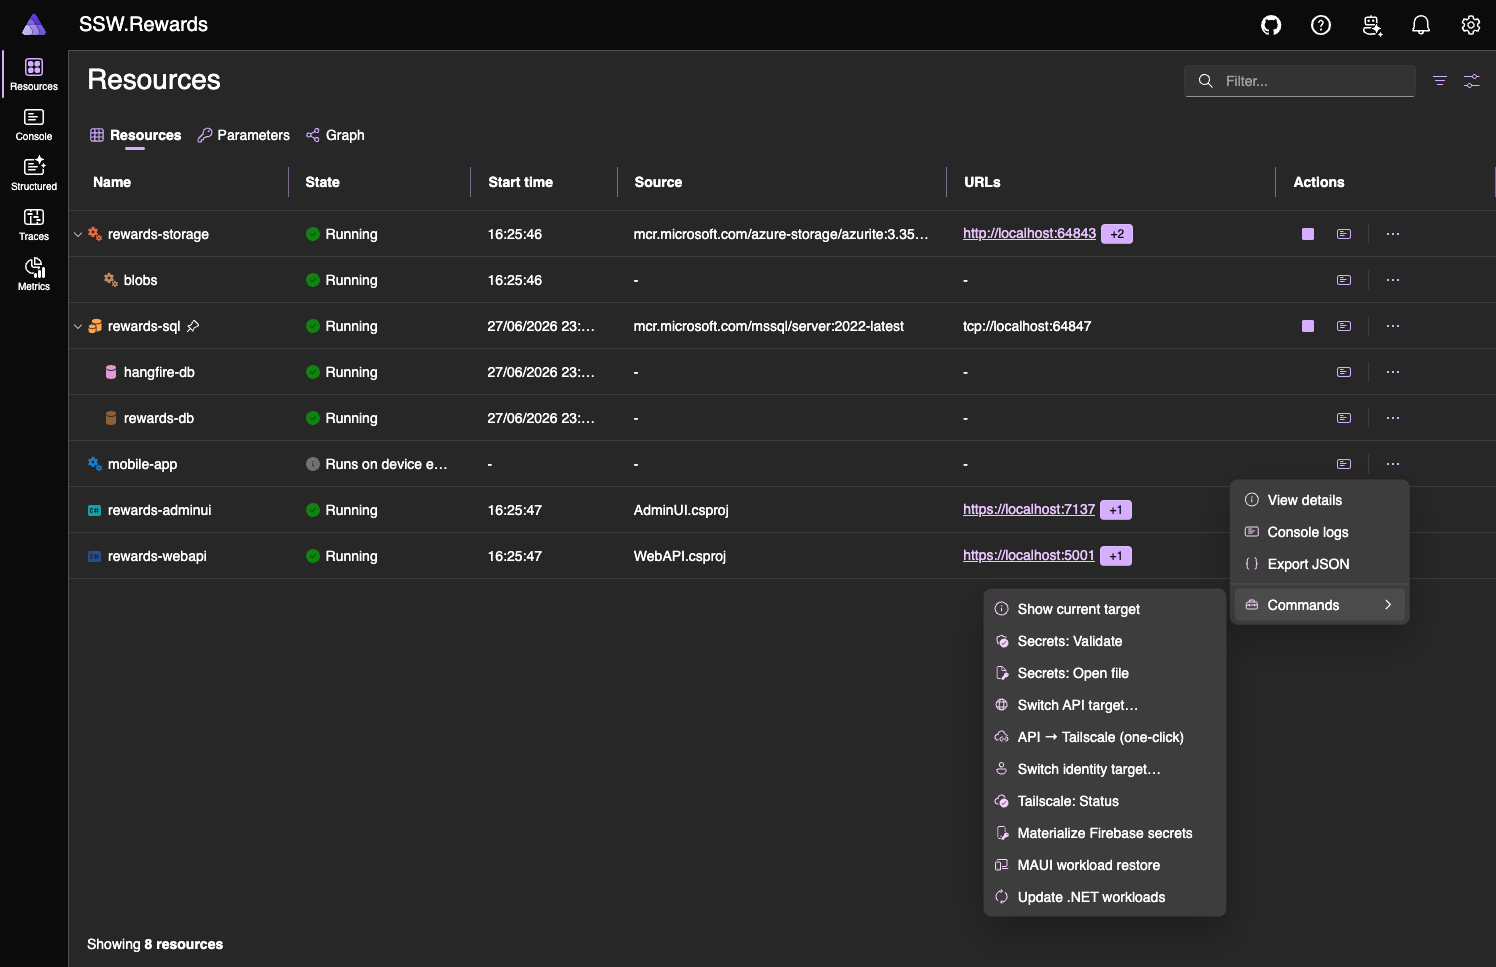
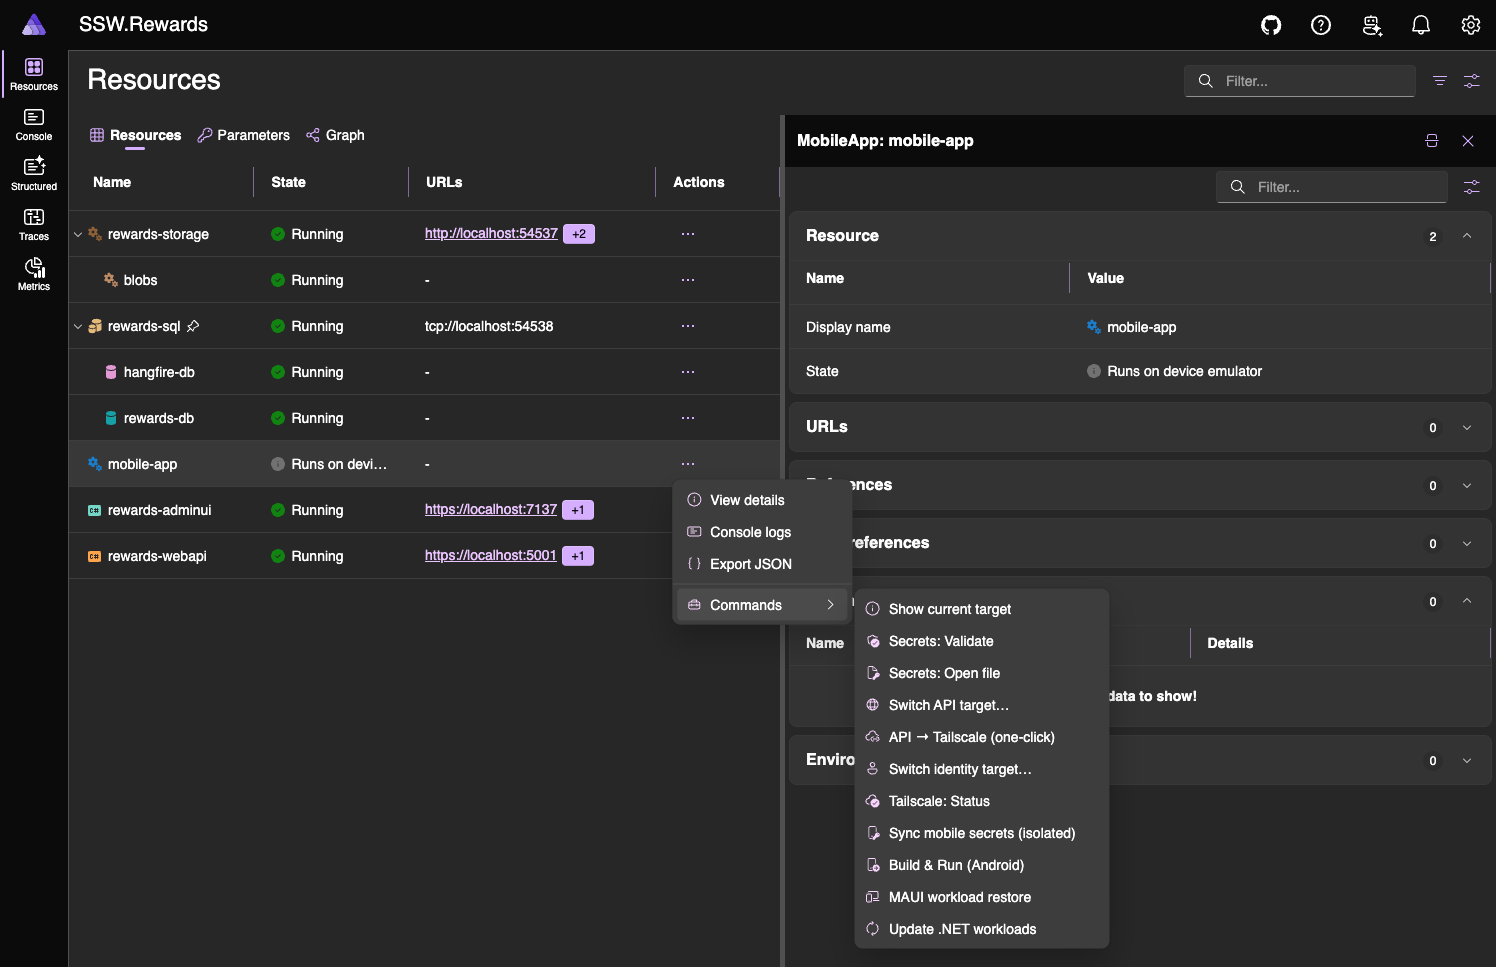
Fix .aspire appHostPath + refresh mobile dashboard screenshot
Polish from fresh-dev validation run 2:

- DX-2: `.aspire/settings.json` `appHostPath` is resolved relative to the
  `.aspire/` directory (per Aspire CLI convention), so `src/AppHost/...`
  produced a cosmetic "AppHost file ... does not exist" warning on every
  `aspire run` (CLI fell back to discovery). Correct it to
  `../src/AppHost/SSW.Rewards.AppHost.csproj`. Verified: warning gone, AppHost
  resolves directly.
- Refresh `_docs/imgs/aspire-mobile-commands.png` to the current command flyout
  (now includes "Sync mobile secrets (isolated)" + "Build & Run (Android)") and
  update its alt text.
- Document the `nohup` emulator-launch pattern for non-interactive shells.

diff --git a/_docs/Aspire-Local-Dev.md b/_docs/Aspire-Local-Dev.md
@@ -101,7 +101,7 @@ restarts. WebAPI + AdminUI start once SQL is healthy; migrations apply on WebAPI
 ## Dashboard commands
 The dashboard groups the local-dev chores under two resources (Actions ▸ Commands):
 
-<img src="imgs/aspire-mobile-commands.png" alt="mobile-app Actions menu expanded showing the Commands flyout with Show current target, Secrets Validate, Secrets Open file, Switch API target, API to Tailscale, Switch identity target, Tailscale Status, Sync mobile secrets (isolated), MAUI workload restore and Update .NET workloads" width="900" />
+<img src="imgs/aspire-mobile-commands.png" alt="mobile-app Actions menu expanded showing the Commands flyout with Show current target, Secrets Validate, Secrets Open file, Switch API target, API to Tailscale, Switch identity target, Tailscale Status, Sync mobile secrets (isolated), Build & Run (Android), MAUI workload restore and Update .NET workloads" width="900" />
 
 Commands that need input (e.g. **Switch API target…**) open a prompt right in the dashboard. Target
 pickers are **dropdowns** (local / staging / prod / tailscale) — no typos, valid by construction:
@@ -189,6 +189,10 @@ Aspire does **not** run the MAUI app — it runs on an emulator/device the usual
      -p:MobileTargetFrameworks=net10.0-android -p:AdbTarget="-s <emulator-id>"
    ```
    (`-t:Run` pushes the Fast-Deployment assemblies; a plain `adb install` of the Debug APK won't run.)
+
+> Boot an emulator first: `~/Library/Android/sdk/emulator/emulator -avd <avd-name> &`. In a
+> non-interactive shell (script/CI/agent), use `nohup ~/.../emulator -avd <avd-name> &` so it
+> survives the shell session, and wait for `adb wait-for-device shell getprop sys.boot_completed`.
 
 ## Phone dev with Tailscale (stable URL, real HTTPS cert)
 Dev tunnels / ngrok give a new URL every session and an untrusted cert on iOS. Tailscale fixes both:
